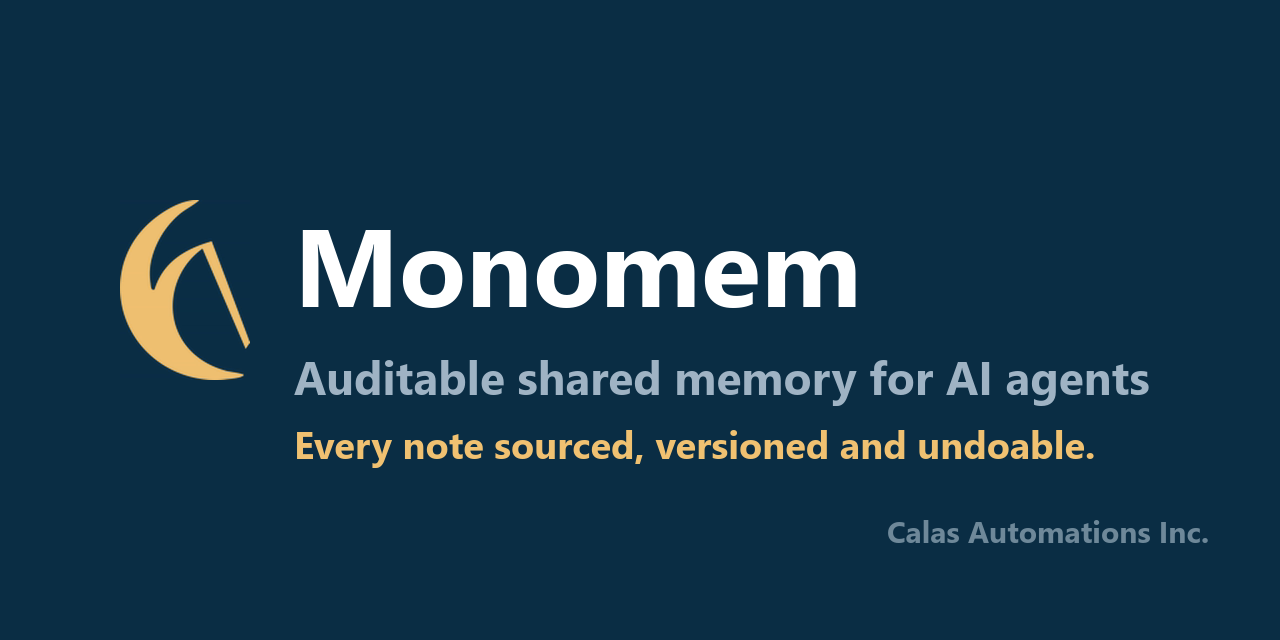
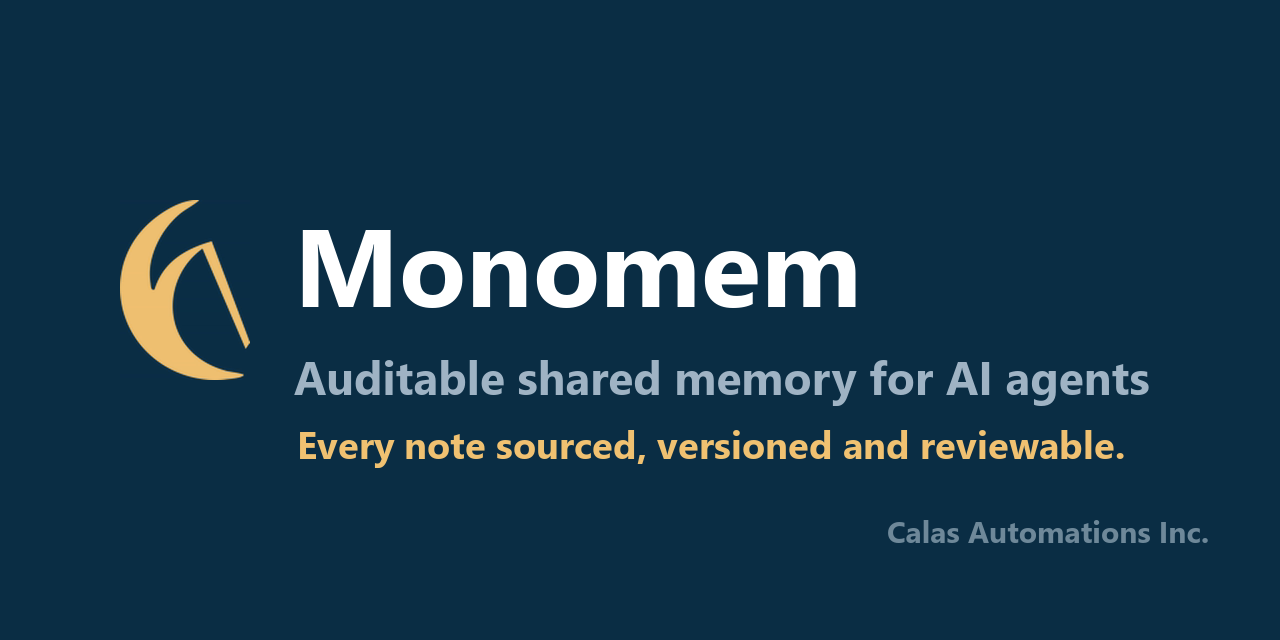
feat: README first screen, honest brand art, short grouped help, doctor colour, old-Node workaround

Changed region(s): [[0.2188, 0.6562, 0.875, 0.7188]]

diff --git a/src/cli.ts b/src/cli.ts
@@ -11,7 +11,80 @@ import { setProcessWriter } from "./actor.js";
 //   monomem init      print the config snippet to wire it into your agent
 //   monomem help      show help
 
-function usage(): void {
+/** Every command main() accepts, for the unknown-command check and the "did you mean" hint. */
+const COMMANDS = [
+  "start", "serve", "mcp", "mcp:stdio", "doctor", "init", "setup", "uninstall", "sync", "reindex", "recall", "hook",
+  "consolidate", "rebuild-edges", "relevant", "changes", "backup", "runner-status", "watch", "export", "import", "trust",
+  "quarantine", "approve-first", "access", "flood", "resume", "decay", "archive", "restore", "delete", "quality",
+  "encrypt", "never-show", "supersede", "history", "pin", "unpin", "rollback", "bench",
+  "help", "--help", "-h", "--version", "-v", "version",
+];
+
+/** Plain edit distance; the command list is tiny, so the simple version is fine. */
+function editDistance(a: string, b: string): number {
+  let prev = Array.from({ length: b.length + 1 }, (_, j) => j);
+  for (let i = 1; i <= a.length; i++) {
+    const cur = [i];
+    for (let j = 1; j <= b.length; j++) cur[j] = Math.min(prev[j] + 1, cur[j - 1] + 1, prev[j - 1] + (a[i - 1] === b[j - 1] ? 0 : 1));
+    prev = cur;
+  }
+  return prev[b.length];
+}
+
+/** The closest known command, or undefined when nothing is plausibly what the person meant. */
+function suggestCommand(cmd: string): string | undefined {
+  let best: string | undefined;
+  let bestDistance = 3; // 1 or 2 edits; farther is a guess, not a hint
+  for (const c of COMMANDS.filter((x) => !x.startsWith("-"))) {
+    const d = editDistance(cmd.toLowerCase(), c);
+    if (d < bestDistance) {
+      best = c;
+      bestDistance = d;
+    }
+  }
+  return best;
+}
+
+function shortUsage(): void {
+  console.log(
+    [
+      "monomem <command>      (the most-used commands; 'monomem help --all' lists every one)",
+      "",
+      "Get started",
+      "  setup [--dry-run]       Connect Monomem to the AI apps on this computer (shows the changes, asks first)",
+      "  doctor                  Check Node, the database, the token and the setup",
+      "  import --claude         Bring in what Claude Code already remembers (add --dry-run to look first)",
+      "  start                   Run the dashboard, REST API and MCP-over-HTTP (the default)",
+      "  mcp                     Run the MCP server over stdio (what your apps launch)",
+      "",
+      "Daily",
+      "  relevant \"message\"      Show the notes that relate to a sentence",
+      "  changes                 What changed while you were away",
+      "  history <id>            A note's earlier versions (history restore <id> <version> puts one back)",
+      "  pin <id> | unpin <id>   Pin a note so agents can read it but not change it",
+      "",
+      "Trust",
+      "  quarantine              Review writes that were held (by the linter or an approve-first namespace)",
+      "  approve-first           Hold every agent write to a namespace until you approve it",
+      "  trust                   Distrust a writer; decide which other servers' exports to believe",
+      "  rollback --writer w --since 2h   Undo what one writer did (shows a plan first)",
+      "  access                  Who read memory, and when",
+      "",
+      "Maintenance",
+      "  backup [--out <dir>]    Copy the database safely, even while the server runs",
+      "  export | import         Move notes in and out (JSON or Markdown)",
+      "  quality                 Duplicates, stale notes and flagged notes worth a look",
+      "  delete <id>             Delete a note permanently, with its earlier versions",
+      "  uninstall               Take Monomem out of every app setup connected",
+      "",
+      "Per-command options: 'monomem help --all'. Docs: https://github.com/calasdan-sketch/monomem",
+      "",
+    ].join("\n")
+  );
+}
+
+function usage(all = false): void {
+  if (!all) return shortUsage();
   console.log(
     [
       "monomem <command>",
@@ -206,8 +279,11 @@ async function doctor(): Promise<void> {
   const { existsSync } = await import("node:fs");
   const { resolve: resolvePath } = await import("node:path");
   const { Store } = await import("./store.js");
-  const ok = (m: string) => console.log("  [ok]   " + m);
-  const warn = (m: string) => console.log("  [warn] " + m);
+  // Colour only for a person at a terminal: not when piped, and not when NO_COLOR is set (no-color.org).
+  const colour = process.stdout.isTTY && !process.env.NO_COLOR;
+  const tag = (t: string, code: number) => (colour ? `\x1b[${code}m${t}\x1b[0m` : t);
+  const ok = (m: string) => console.log("  " + tag("[ok]", 32) + "   " + m);
+  const warn = (m: string) => console.log("  " + tag("[warn]", 33) + " " + m);
   console.log("monomem doctor\n");
 
   const { nodeIsOk, MIN_NODE_TEXT, sqliteHasFts5 } = await import("./setup.js");
@@ -2300,10 +2376,18 @@ async function main(): Promise<void> {
       console.error(
         `Monomem needs Node.js ${MIN_NODE_TEXT} or newer, and this computer has Node ${process.versions.node}.\n` +
           "  Fix: install Node 22.16+ or 24 LTS (https://nodejs.org), open a NEW terminal, check with:  node -v\n" +
+          "  Just want to set it up now? This runs setup with a temporary Node 24 (nothing to install):\n" +
+          "      npx -y -p node@24 -p monomem monomem setup\n" +
+          "  Your apps will still start Monomem with the Node on this computer, so upgrade Node before relying on it.\n" +
           "  Nothing was changed. (Can't upgrade Node? Docker works too: see INSTALL.md.)"
       );
       process.exit(1);
     }
+  }
+  if (!COMMANDS.includes(cmd)) {
+    const guess = suggestCommand(cmd);
+    console.error(`Unknown command '${cmd}'.${guess ? ` Did you mean '${guess}'?` : ""}\nRun 'monomem help' to see the commands.`);
+    process.exit(1);
   }
   if (cmd === "--version" || cmd === "-v" || cmd === "version") {
     const { PACKAGE_VERSION } = await import("./config.js");
@@ -2445,11 +2529,10 @@ async function main(): Promise<void> {
     case "help":
     case "--help":
     case "-h":
-      usage();
+      usage(process.argv.includes("--all"));
       break;
     default:
-      console.error(`Unknown command: ${cmd}\n`);
-      usage();
+      console.error(`Unknown command '${cmd}'. Run 'monomem help' to see the commands.`);
       process.exit(1);
   }
 }

diff --git a/test/cli-help.test.ts b/test/cli-help.test.ts
@@ -1,0 +1,42 @@
+// First-impression CLI behaviour: short grouped help, a helpful unknown-command message, old-Node workaround.
+import { test, describe } from "node:test";
+import assert from "node:assert/strict";
+import { mkdtempSync, rmSync, writeFileSync } from "node:fs";
+import { tmpdir } from "node:os";
+import { join } from "node:path";
+import { spawnSync } from "node:child_process";
+import { PROJECT_ROOT } from "../src/config.js";
+
+const CLI = join(PROJECT_ROOT, "dist", "src", "cli.js");
+const run = (args: string[]) => spawnSync(process.execPath, [CLI, ...args], { encoding: "utf8", env: { ...process.env, NO_COLOR: "1" } });
+
+describe("cli help", () => {
+  test("default help is short and grouped; --all keeps the full text", () => {
+    const short = run(["help"]).stdout;
+    for (const g of ["Get started", "Daily", "Trust", "Maintenance"]) assert.match(short, new RegExp(g));
+    assert.match(short, /help --all/);
+    assert.doesNotMatch(short, /rebuild-edges/);
+    assert.match(run(["help", "--all"]).stdout, /rebuild-edges/);
+  });
+  test("an unknown command suggests the closest one and exits non-zero without dumping help", () => {
+    const r = run(["stat"]);
+    assert.equal(r.status, 1);
+    assert.match(r.stderr, /Unknown command 'stat'\. Did you mean 'start'\?/);
+    assert.match(r.stderr, /monomem help/);
+    assert.equal(r.stdout, "");
+    assert.match(run(["doctr"]).stderr, /Did you mean 'doctor'\?/);
+    assert.doesNotMatch(run(["xyzxyzxyz"]).stderr, /Did you mean/);
+  });
+  test("old Node gets the one-line workaround", () => {
+    const root = mkdtempSync(join(tmpdir(), "om-clihelp-"));
+    try {
+      const shim = join(root, "shim.mjs");
+      writeFileSync(shim, `Object.defineProperty(process.versions, "node", { value: "22.1.0" });\nawait import(${JSON.stringify("file://" + CLI.replace(/\\/g, "/"))});\n`);
+      const r = spawnSync(process.execPath, [shim, "setup", "--dry-run"], { encoding: "utf8", env: { ...process.env, HOME: root, USERPROFILE: root, MONOMEM_HOME: join(root, "om") } });
+      assert.equal(r.status, 1);
+      assert.match(r.stderr, /npx -y -p node@24 -p monomem monomem setup/);
+    } finally {
+      rmSync(root, { recursive: true, force: true });
+    }
+  });
+});

diff --git a/test/setup.test.ts b/test/setup.test.ts
@@ -698,7 +698,7 @@ describe("setup: Claude Code rewriting its file while we work", () => {
 describe("setup: wiring", () => {
   test("`monomem help` lists setup and the new import and sync forms", async () => {
     const { spawnSync } = await import("node:child_process");
-    const r = spawnSync(process.execPath, [CLI, "help"], { encoding: "utf8" });
+    const r = spawnSync(process.execPath, [CLI, "help", "--all"], { encoding: "utf8" });
     assert.match(r.stdout, /setup \[--dry-run\]/);
     assert.match(r.stdout, /import --claude/);
     assert.match(r.stdout, /sync --git/);

diff --git a/test/bench.test.ts b/test/bench.test.ts
@@ -709,7 +709,7 @@ describe("the command line", () => {
     const h = spawnSync(process.execPath, [cli, "bench", "--help"], { env: env(), encoding: "utf8", timeout: 60000 });
     assert.equal(h.status, 0);
     assert.match(h.stdout, /provenance benchmark/);
-    const main = spawnSync(process.execPath, [cli, "help"], { env: env(), encoding: "utf8", timeout: 60000 });
+    const main = spawnSync(process.execPath, [cli, "help", "--all"], { env: env(), encoding: "utf8", timeout: 60000 });
     assert.match(main.stdout, /\n  bench /);
   });
 

diff --git a/test/rv6-fixes.test.ts b/test/rv6-fixes.test.ts
@@ -427,7 +427,7 @@ describe("RV6-b: the pre-upgrade copy is required, read-only directories get a r
     assert.doesNotMatch(up, /refuses to start/);
     assert.doesNotMatch(readFileSync(join(root, "docs", "trust.md"), "utf8"), /refuses to start/);
     assert.doesNotMatch(readFileSync(join(root, "docs", "file-sync.md"), "utf8"), /with `--prune`/);
-    const help = cli(tmp("om-rv6-h-"), ["help"]);
+    const help = cli(tmp("om-rv6-h-"), ["help", "--all"]);
     assert.match(help.stdout, /dated copies/);
     void statSync;
   });

diff --git a/scripts/make-brand-wordmark.py b/scripts/make-brand-wordmark.py
@@ -66,10 +66,51 @@ def redraw(path: Path, size: int, ink_xy: tuple[int, int], clear: tuple[int, int
     print(f"{path}: wordmark redrawn as {NAME!r} at {size}px")
 
 
+GOLD = (240, 193, 113)  # the colour of the claim lines, sampled from the originals
+
+# The claim lines used to end in "undoable". Deleting a note is permanent (on
+# purpose), so the artwork now says "reviewable": writes can be held and reviewed.
+# "ink_x" is the ink's left edge, or its right edge when "right" is true.
+CLAIMS = [
+    {
+        "path": "docs/brand/monomem-banner.png",
+        "text": "reviewable",
+        "size": 36,
+        "ink_x": 1609,
+        "right": True,
+        "ink_top": 214,
+        "clear": (1400, 205, 1625, 250),
+    },
+    {
+        "path": "docs/brand/social-preview.png",
+        "text": "Every note sourced, versioned and reviewable.",
+        "size": 38,
+        "ink_x": 297,
+        "right": False,
+        "ink_top": 430,
+        "clear": (285, 420, 1200, 480),
+    },
+]
+
+
+def redraw_claim(path: Path, c: dict) -> None:
+    image = Image.open(path).convert("RGB")
+    draw = ImageDraw.Draw(image)
+    draw.rectangle(c["clear"], fill=NAVY)
+    font = ImageFont.truetype(FONT, c["size"])
+    left, top, right, _ = draw.textbbox((0, 0), c["text"], font=font)
+    x = c["ink_x"] - (right if c["right"] else left)
+    draw.text((x, c["ink_top"] - top), c["text"], fill=GOLD, font=font)
+    image.save(path)
+    print(f"{path}: claim redrawn as {c['text']!r}")
+
+
 def main() -> None:
     root = Path(__file__).resolve().parent.parent
     for target in TARGETS:
         redraw(root / target["path"], target["size"], target["ink_xy"], target["clear"])
+    for claim in CLAIMS:
+        redraw_claim(root / claim["path"], claim)
 
 
 if __name__ == "__main__":

diff --git a/README.md b/README.md
@@ -1,14 +1,13 @@
 <!-- Image URLs are absolute on purpose: GitHub resolves relative paths, npm does not. -->
 ![Monomem — one memory, every assistant](https://raw.githubusercontent.com/calasdan-sketch/monomem/main/docs/brand/monomem-banner.png)
 
-**Shared memory for AI coding agents that records who wrote what.** Tell Claude, Cursor, Codex or
-Gemini something once and the rest already know it — one self-hosted SQLite
-file, over MCP or plain REST. No API keys, no cloud, no hidden model calls.
-**Every note records who wrote it and keeps its earlier versions. Replacing or
-editing a note can be undone; deleting one is permanent, by design.** The default
-local setup marks each app's notes `stdio:<app>` (`stdio:cursor`, `stdio:claude-code`, ...), a
-name the app's config file declares, not a login; give each app its own token when the writer
-must be authenticated. [Benchmarks](#benchmark) back each of these claims.
+**One memory for every AI coding assistant, and it shows who wrote each note.**
+
+```bash
+npx monomem setup
+```
+
+Tell Claude Code something once, and your other assistants can read it too. It's one SQLite file on your own machine. No cloud, no API keys, no hidden model calls.
 
 [![CI](https://github.com/calasdan-sketch/monomem/actions/workflows/ci.yml/badge.svg)](https://github.com/calasdan-sketch/monomem/actions/workflows/ci.yml)
 [![npm](https://img.shields.io/npm/v/monomem)](https://www.npmjs.com/package/monomem)
@@ -19,9 +18,25 @@ must be authenticated. [Benchmarks](#benchmark) back each of these claims.
 
 *Rendered from a real two-writer run against one store ([transcript](https://github.com/calasdan-sketch/monomem/blob/main/docs/brand/demo-transcript.txt)): two separately authenticated tokens, real server-stamped `written_by`, nothing sped up.*
 
-Tell one assistant something; every other assistant already knows it. Write a
-note in Claude Code, read it back in Cursor, Gemini CLI or Codex — one store,
-shared across tools from different companies, on your own machine.
+- **Knows who wrote it.** Every note carries a writer name the server stamps itself; a note can't claim to be from someone else.
+- **Holds suspicious writes.** Writes that look like prompt injection wait in quarantine until you approve them, and you can make a whole namespace approve-first so every agent write waits for you. The linter is pattern matching, so it doesn't catch everything.
+- **Takes back mistakes.** Edits and replacements keep the earlier versions (up to 20 per note by default) and can be undone. Deleting a note is permanent, on purpose.
+- **Sets itself up.** `setup` finds the supported apps on your computer, shows the exact lines it will change, backs up each file, and waits for you to type `y`.
+
+## More detail
+
+Shared memory for AI coding agents that records who wrote what. Tell Claude,
+Cursor, Codex or Gemini something once and the rest already know it: one
+self-hosted SQLite file, over MCP or plain REST. Write a note in Claude Code,
+read it back in Cursor, Gemini CLI or Codex; one store, shared across tools from
+different companies, on your own machine.
+
+**Every note records who wrote it and keeps its earlier versions (up to 20 by
+default). Replacing or editing a note can be undone; deleting one is permanent,
+by design.** The default local setup marks each app's notes `stdio:<app>`
+(`stdio:cursor`, `stdio:claude-code`, ...), a name the app's config file
+declares, not a login; give each app its own token when the writer must be
+authenticated. [Benchmarks](#benchmark) back each of these claims.
 
 `setup` wires up eight clients on this computer: **Claude Code, Claude Desktop,
 Cursor, Codex, Gemini CLI, Muse, VS Code and Zed.** Anything else that speaks
